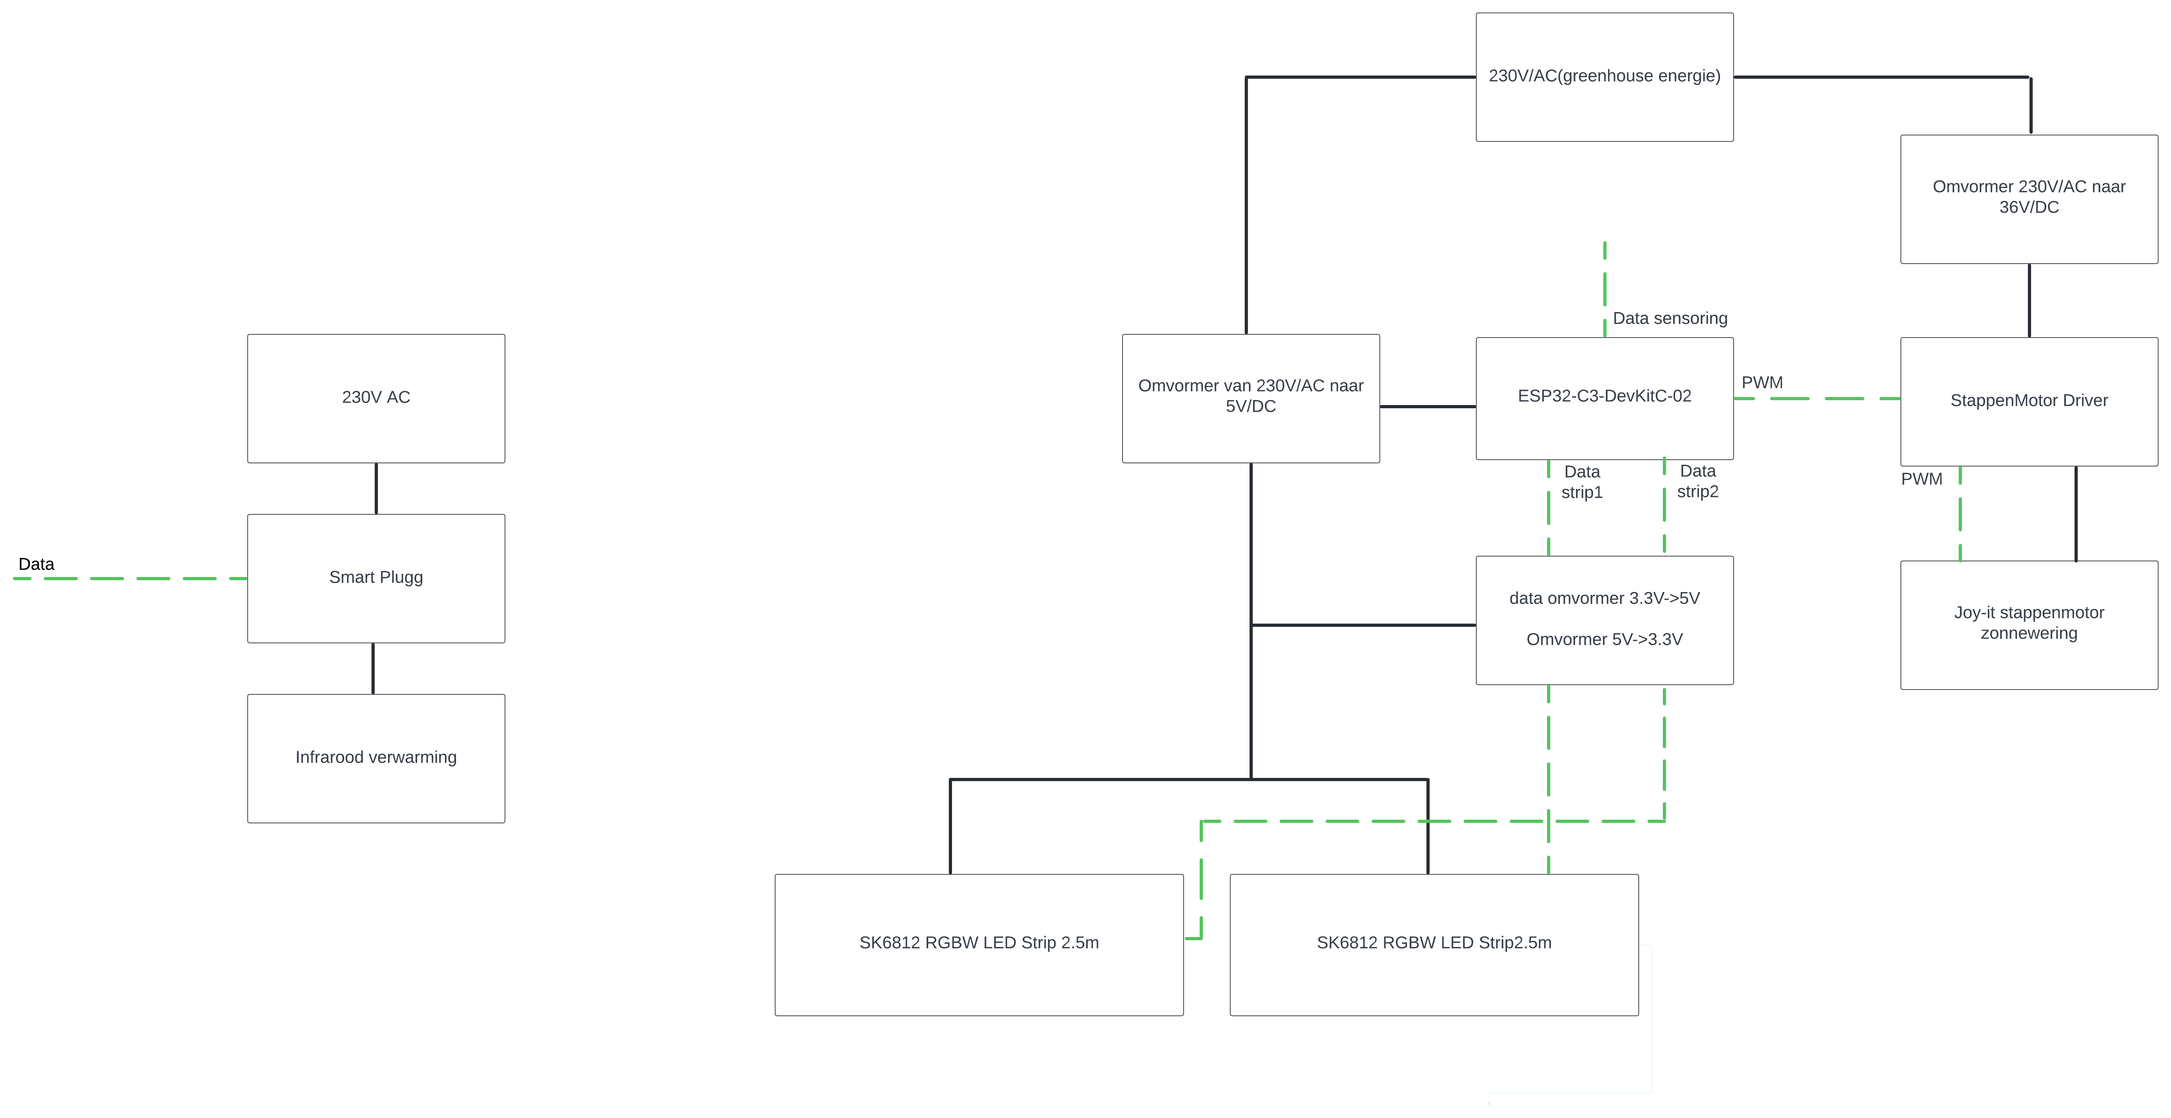
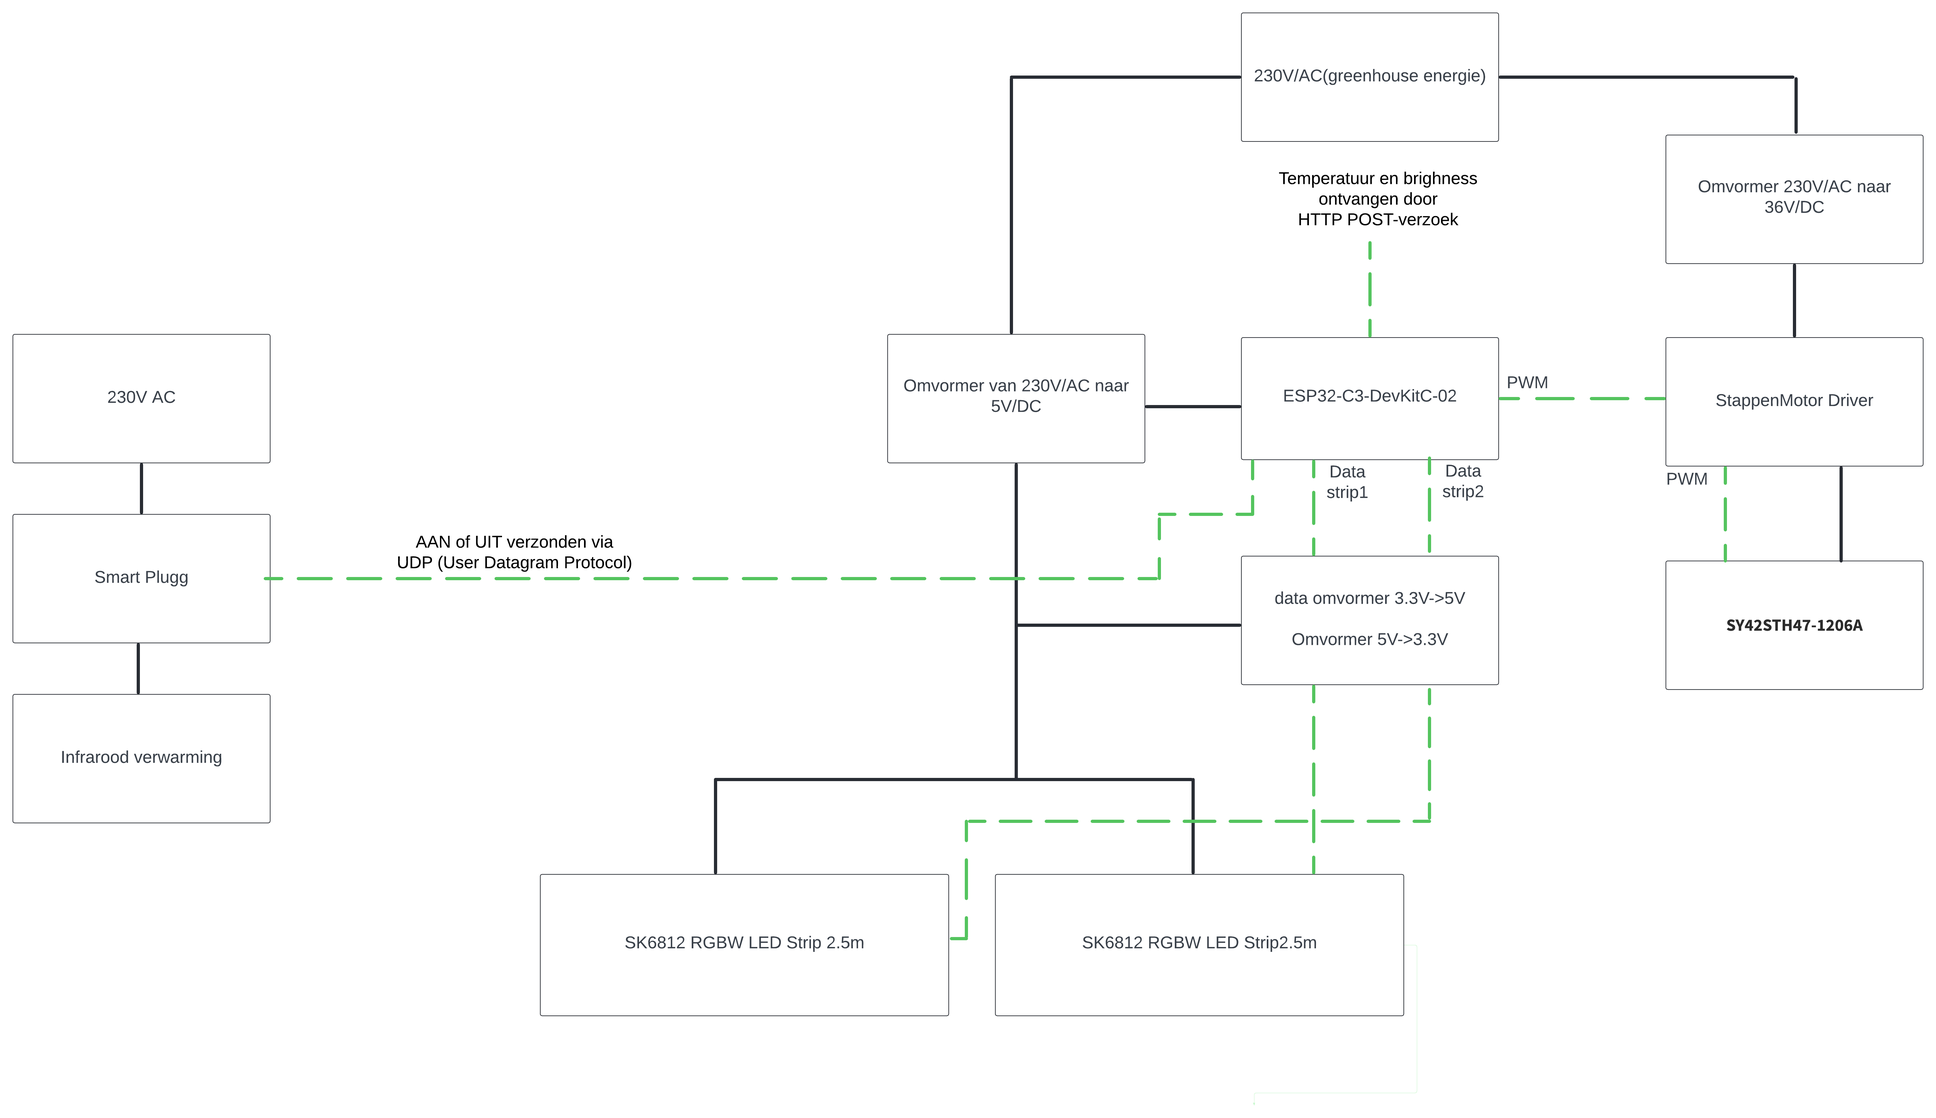
Readme changes

diff --git a/README.md b/README.md
@@ -4,9 +4,15 @@
 
 ## Introduction
 
-This project automates the control of light and heat within a greenhouse to optimize plant growth year-round. Through a network of sensors and actuators, the system continuously monitors and adjusts environmental conditions to create the ideal environment for plants.
+This project automates the control of light and heat within a greenhouse to optimize plant growth year-round. Through a network of sensors and actuators, the system continuously monitors and adjusts environmental conditions to create the ideal environment for plants. We don't do everyting on or own we have a group that measure the temprature and light intensity. And one that send us the data.
 
-## The team
+[GreenhouseSensoring](./Documentatie/README.md).
+
+[GreenhouseNetwork-Monitoring](https://github.com/vives-project-xp/GreenhouseNetwork-Monitoring).
+
+
+
+## Our team
 
 - Thibaut Schroyens (SCRUM Master)
 - Sam De Wispelaere
@@ -14,40 +20,61 @@ This project automates the control of light and heat within a greenhouse to opti
 
 ## features
 
-- Light Control: Adjusts lighting with blue and red LEDs to stimulate plant growth and manages shading to prevent overexposure.
-- Temperature Regulation: Monitors greenhouse temperature, controlling electric heaters to add warmth or opening windows for cooling.
+- **Light Control:** Automated purple lightning based on the current lightintensity.
+- **Temperature Regulation:** Monitors greenhouse temperature, controlling electric heaters to add warmth and a shade cloth to try and cooldown the serre.
 - All LEDs, heaters, and actuators run on standard power (230V), making installation straightforward and accessible without specialized wiring.
 
 ## Hardware
 
-- ledstrip: SK6812 RGBW LED Strip 5m
-- esp32: ESP32-C3-DevKitC-02
-- voedingen: Mean Well Rs-50-5 (5V-10A) + Mean Well UHP-200R-36 (36V-5.6A)
-- stappenmotor: Joy-it Nema23-02 (2.5A - 1.2Nm)
-- level shifter: Sparkfun Logic converter, bi-directional
-- verwarmingselement: VONROC heater marsili compact -2000W
-- Smart plug : Wiz Smart plug
-- stappenmotordriver: Joy-it SBC-MD-TB6600
-- Shade cloth
-- Lamp construction
-- Shade cloth roll-up construction
+- **ledstrip:** SK6812 RGBW LED Strip 5m
+- **esp32:** ESP32-C3-DevKitC-02
+- **voedingen:** Mean Well Rs-50-5 (5V-10A) + Mean Well UHP-200R-36 (36V-5.6A)
+- **stappenmotor:** SY42STH47-1206A 
+- **level shifter:** Sparkfun Logic converter, bi-directional
+- **heater:** VONROC heater marsili compact -2000W
+- **Smart plug :** Wiz Smart plug
+- **stepper motor driver:** Joy-it SBC-MD-TB6600
+- **Shade cloth**
+- **Lamp construction**
+- **Shade cloth roll-up construction**
 
-## 3D Prints
+### Hardware architecture diagram
 
-- Plate for lamps
- ![Plate for lamps](./resources/images/LampPlaat.png)
-- Corner for attaching shade cloth (?)
-- Housing for weight (weight = soil) (?)
-  ![Plate for lamps](./resources/images/WeightForDirt.png)
-- Electric motor attachments (?)
+![Architectuur_Doc](./Documentatie/images/Architectuur_doc.png)
+
 
 ## Software
 
-- The only software used is WLED for controlling our LED's.
-- the rest of the software is provided by the other teams
+- We flash all the code on the ESP using  [Arduino IDE](https://www.arduino.cc/en/software). 
+
+We use there settings for our ESP32 in IDE
+
+![Project Picture AI](./Documentatie/images/SettingsESP32InArduinoIDE.png)
+
+### Used librarys
+- **WebServer.h:** Handles HTTP server requests
+- **ArduinoJson.h:** Parses incoming JSON data.
+- **WiFi.h:** Connects the ESP32 to a Wi-Fi network
+- **FastLED.h:** Controls the LED strip.
+- **WiFiUdp.h:** Used to communicate with the WiZ smart plug via UDP.
 
 ## Bom list
 
+These are all the components we purchased in this project. **Prices may vary depending in the website and date!!**
+
+| Component                                                                                                                                                                                                                                                                                  | Quantity | Price / unit |
+| :----------------------------------------------------------------------------------------------------------------------------------------------------------------------------------------------------------------------------------------------------------------------------------------- | :------: | -----------: |
+| [**SK6812 RGBW LED Strip**](https://www.btf-lighting.com/collections/sk6812-rgbw/products/1-sk6812-rgbw-4-in-1-pixels-individual-addressable-led-strip-dc5v?variant=45843368149218)                                                                                             |    1     |       €36,36 |
+| [**ESP32-C3-DevKitC-02**](https://www.digikey.be/nl/products/detail/espressif-systems/ESP32-C3-DEVKITC-02/14553009)                                                                                                                |    1     |      €7,12 |
+| [**stappenmotor**](https://www.pololu.com/product/1200l)                                                                                                                                                                             |    2    |       €25,63 |
+| [**verwarmingselement**](https://www.brico.be/nl/tuin-terras-buitenleven/terrasverwarming/terrasverwarmers-accessoires/terrasverwarmers/vonroc-heater-marsili-compact-2000w-zwart/10138731#specs)                                                                                                                                                                                    |    1     |        €41,28 |
+| [**level shifter**](https://www.kiwi-electronics.com/nl/sparkfun-logic-level-converter-bi-directional-3154?country=BE&gad_source=1&gclid=CjwKCAjw68K4BhAuEiwAylp3kt7vck5a6xNAdQXR4uiNX7ktb2c63guU_YwqHTPJBu4vWqOJ1PuHGRoCmoIQAvD_BwE)                                                                                                                                                                                |    1     |        €3,51 |
+| [**Omvormer 230-5**](https://www.conrad.be/nl/p/mean-well-rs-50-5-schakelnetvoedingsmodule-5-v-dc-10-a-50-w-1297303.html?cq_src=google_ads&cq_cmp=40589428&cq_term=mean+well+rs-50-5&cq_plac=&cq_net=g&cq_plt=gp&adcampaign=google&tid=40589428_140876950727_kwd-547842379393&gad_source=1&gclid=Cj0KCQjwyL24BhCtARIsALo0fSDuCaDh2ffTkAbUqMfxnU9p9Hiimt1URVC2o9y4NEF36lzJeEPr_NQaAln_EALw_wcB)                                     |    1     |       €14,04 |
+| [**Smart plug**](https://www.hubo.be/nl/p/wiz-smart-plug-stekker/943560/?srsltid=AfmBOop1jMLLTrlQRWXBZI4sboYYit9EBC_hZCbBdXXBF2tYZz2Lpcub)                                                                                                                                                                                 |    1     |        €13,21 |
+| [**Stappenmotordriver**](https://www.conrad.be/nl/p/joy-it-sbc-md-tb6600-stappenmotordriver-2999126.html?refresh=true)                                                                                                                                                                                 |    1     |        €19,83 |
+| [**voeding driver**](https://www.conrad.be/nl/p/mean-well-uhp-200r-36-schakelnetvoedingsmodule-36-v-dc-5-6-a-201-6-w-2237833.html)                                                                                                                                                                                 |    1     |        €54,54 |
+
+
 ## Step by step plan
 
-For a step by step plan click [here](./Documentatie/README.md).
+For a step by step installition guide click [here](./Documentatie/README.md).

diff --git a/Documentatie/README.md b/Documentatie/README.md
@@ -1,36 +1,38 @@
-# Documentation 
+# Installation
 
-This is the documentation page. This is the place u need to be if u want to know everything about or hardware witch components we use. How u set up everything ect. 
+## Reviece the data
 
-## Table of context
+Before we start we need to be abled to connect the ESP32 to the Wifi and recieve the data from [GreenhouseNetwork-Monitoring](https://github.com/vives-project-xp/GreenhouseNetwork-Monitoring) 
 
-## Installation
+- For this we had to place  [this code snipped](../Code/Sending_date.py) in there code. For more info go to there Github.
+
+- Now to connect the ESP32 to the Wifi and recieve the date we u need to upload [this code snipped](../Code/ResieveData_And_No_WLED/ResieveData_And_No_WLED.ino)  to the esp.
+
+
+### Postman
+- If u dont want to use the other projects or u want to test things without them u can test the ESP32 using [Postman](https://www.postman.com/)
+
+Using these settings: 
+![Postman1](../Documentatie/images/PostmanSettings1.png)
+![Postman2](../Documentatie/images/Postmansettings2.png)
+
+Now u shoud be abled to send the data to ur ESP. 
+
+
+
+## Step by step guide
+
 
 1. **Install the LED strip/Lamp:** this can all be found [here](./Lamp_Install_Guide/README.md)
 2. **Install shade Shade cloths:** how to install them can be found here [here](./Shade_cloths_Install_Guide/README.md).
 3. **Install heater:** if u want to know how we installed the heater that can be found here [here](./Heater_Install_Guide/README.md).
+4. **Recieving data** To recieve data u need to connect ur esp32 to WIFI working together with [GreenhouseNetwork-Monitoring](https://github.com/vives-project-xp/GreenhouseNetwork-Monitoring) we placed this code snipped [this code snipped](https://github.com/vives-project-xp/GreenhouseNetwork-Monitoring) in there code. 
 
-## Bill of Material
+**Its a good thing to test everyting together in a demo setup before u install things on the actual serre!!!** 
 
-These are all the components we purchased in this project. **Prices may vary depending in the website and date!!**
+The final code can be found [here](../Code/TotalCode/TotalCode.ino).
 
-| Component                                                                                                                                                                                                                                                                                  | Quantity | Price / unit |
-| :----------------------------------------------------------------------------------------------------------------------------------------------------------------------------------------------------------------------------------------------------------------------------------------- | :------: | -----------: |
-| [**SK6812 RGBW LED Strip**](https://www.btf-lighting.com/collections/sk6812-rgbw/products/1-sk6812-rgbw-4-in-1-pixels-individual-addressable-led-strip-dc5v?variant=45843368149218)                                                                                             |    1     |       €36,36 |
-| [**ESP32-C3-DevKitC-02**](https://www.digikey.be/nl/products/detail/espressif-systems/ESP32-C3-DEVKITC-02/14553009)                                                                                                                |    1     |      €7,12 |
-| [**stappenmotor**](https://www.pololu.com/product/1200l)                                                                                                                                                                             |    2    |       €25,63 |
-| [**verwarmingselement**](https://www.brico.be/nl/tuin-terras-buitenleven/terrasverwarming/terrasverwarmers-accessoires/terrasverwarmers/vonroc-heater-marsili-compact-2000w-zwart/10138731#specs)                                                                                                                                                                                    |    1     |        €41,28 |
-| [**level shifter**](https://www.kiwi-electronics.com/nl/sparkfun-logic-level-converter-bi-directional-3154?country=BE&gad_source=1&gclid=CjwKCAjw68K4BhAuEiwAylp3kt7vck5a6xNAdQXR4uiNX7ktb2c63guU_YwqHTPJBu4vWqOJ1PuHGRoCmoIQAvD_BwE)                                                                                                                                                                                |    1     |        €3,51 |
-| [**Omvormer 230-5**](https://www.conrad.be/nl/p/mean-well-rs-50-5-schakelnetvoedingsmodule-5-v-dc-10-a-50-w-1297303.html?cq_src=google_ads&cq_cmp=40589428&cq_term=mean+well+rs-50-5&cq_plac=&cq_net=g&cq_plt=gp&adcampaign=google&tid=40589428_140876950727_kwd-547842379393&gad_source=1&gclid=Cj0KCQjwyL24BhCtARIsALo0fSDuCaDh2ffTkAbUqMfxnU9p9Hiimt1URVC2o9y4NEF36lzJeEPr_NQaAln_EALw_wcB)                                     |    1     |       €14,04 |
-| [**Smart plug**](https://www.hubo.be/nl/p/wiz-smart-plug-stekker/943560/?srsltid=AfmBOop1jMLLTrlQRWXBZI4sboYYit9EBC_hZCbBdXXBF2tYZz2Lpcub)                                                                                                                                                                                 |    1     |        €13,21 |
-| [**Stappenmotordriver**](https://www.conrad.be/nl/p/joy-it-sbc-md-tb6600-stappenmotordriver-2999126.html?refresh=true)                                                                                                                                                                                 |    1     |        €19,83 |
-| [**voeding driver**](https://www.conrad.be/nl/p/mean-well-uhp-200r-36-schakelnetvoedingsmodule-36-v-dc-5-6-a-201-6-w-2237833.html)                                                                                                                                                                                 |    1     |        €54,54 |
 
-## Architecture documents
-
-### Hardware architecture diagram
-
-![Architectuur_Doc](./images/Architectuur_doc.png)
 
 ### Electrical diagram
 

diff --git a/Documentatie/Lamp_Install_Guide/README.md b/Documentatie/Lamp_Install_Guide/README.md
@@ -38,7 +38,7 @@ This should be the final result:
 
 ### Guide on Connections
 
-To properly connect the components, we need to use a **3.3V to 5V level shifter** because the ESP32 sends **3.3V data signals**, while the LED strips require **5V data signals**.
+To properly connect the components, we need to use a **3.3V to 5V level shifter** because the ESP32 sends **3.3V data signals**, while the LED strips require **5V data signals**. We made or own custom board for this.
 
 #### Power Supply
 
@@ -60,45 +60,8 @@ By ensuring this configuration, the ESP32 can reliably control the LED strips wi
 
 Initially, we considered using **WLED** because it is easy to set up and manage. However, we also needed to implement our custom script on the ESP32 to control the **heater** and **shading**. Since integrating WLED with our custom logic proved challenging, we decided to manage the LEDs through our own script instead. This approach allows us to consolidate all sensor data and control logic.
 
-The sensor value was send from a project **GreenhouseSensoring** to **GreenhouseNetwork-Monitoring** who then send the data to us.
+Then to test the basic LED setup u can [upload this code](../../Code/LEDS_Aanstuuren/LEDS_Appart_Aanstuuren.ino) to ur esp32 this should give u purple light on the LEDS.
 
-
-### 1. Sensor Data Reading
-
-The sensor data reading was implemented with help from the [GreenhouseSensoring](https://github.com/vives-project-xp/GreenhouseSensoring) project. For more details on how sensor data is handled, please visit their GitHub repository.
-
-### 2. Data Transmission
-
-The sensor data is sent to another project, [GreenhouseNetwork-Monitoring](https://github.com/vives-project-xp/GreenhouseNetwork-Monitoring). Visit their page for further insights into how the network transmission is managed.
-
----
-
-## Base Code
-
-The following base code was adapted from **GreenhouseNetwork-Monitoring**:
-
-```python
-async def foo():
-    # data = hass.states.sensor.greenhouse_10_10_2_48
-    # temperature = data.attributes["temperature"]
-    # Brightness = data.attributes["brightness"]
-    Brightness = 100
-    
-    #send data to an esp32
-    import aiohttp
-    import json
-    url = "http://10.10.2.2/json/state"
-    data = {"bri": Brightness}
-    
-    headers = {
-        'Content-Type': 'application/json'
-    }
-    
-    async with aiohttp.ClientSession() as session:
-        async with session.post(url, headers=headers, data=json.dumps(data)) as response:
-            response_text = await response.text()
-            print(response_text)
-```
 
 ## Step 4: Connect the ESP to Net current
 
@@ -106,6 +69,10 @@ async def foo():
 
 ### Led strip on lamp
 
-Now the ledstrip can be put onto the 3d printed lamp. You put the ledstrip on the plate of the lamp so that the connector can go true the holes of the plate to connect to the esp on the back side.
+Now the ledstrip can be put onto the [3d printed lamp](../../resources/3D-Tekeningen/PlaatLamp.stl). You put the ledstrip on the plate of the lamp so that the connector can go true the holes of the plate to connect to the esp on the back side.
 
 ![LedStrip_on_Lamp](../images/led_strip_on_lamp.jpg)
+
+
+
+### Installing it on the serre

diff --git a/Documentatie/Shade_cloths_Install_Guide/README.md b/Documentatie/Shade_cloths_Install_Guide/README.md
@@ -27,11 +27,15 @@
 
 - Connect the four wires of the SY42STH47-1206A stepmotor to the driver:
   - **A+ and A-**: Connect to the corresponding "A+" and "A-" terminals of the TB6600.
+
     A+ --> Red 
+
     A- --> Bleu
 
   - **B+ and B-**: Connect to the corresponding "B+" and "B-" terminals of the TB6600.
+
     B+ --> Green
+
     B- --> Black
 
 - Verify the correct pin order in the motor's datasheet to prevent a short circuit.
@@ -48,14 +52,14 @@
 
 ### Images Connections
 
-![Connecting stepper motor](./images/Connecting_Stepper_Motor.png)
+![Architectuur_Doc](../images/Wiring_architecture_diagram.png)
 
 ## Step 2 : Use the right settings for ur driver
 
 ### Setting the DIP Switches on the TB6600
 
 - Configure the DIP switches as follows:
-  - **Microstepping**: Choose a desired resolution, such as 16 microsteps.
+  - **Microstepping**: Choose a desired resolution, such as  microsteps.
   - **Current Limit**: Set the current limit to **1 A**, the nominal current of the SY42STH47-1206A is 1.2A.
 - Refer to the TB6600 manual for the correct DIP switch settings.
 The following table shows the DIP switch settings for configuring the current limit on the TB6600 driver:
@@ -63,7 +67,7 @@ The following table shows the DIP switch settings for configuring the current li
 | Current (A) | S4  | S5  | S6  |
 |-------------|------|------|------|
 | 0.5         | ON   | ON   | ON   |
-| **1.0**     | ON   | OFF  | ON   |
+| **1.0**     | **ON**   | **OFF**  | **ON**   |
 | 1.5         | ON   | ON   | OFF  |
 | 2.0         | ON   | OFF  | OFF  |
 | 2.5         | OFF  | ON   | ON   |
@@ -73,7 +77,7 @@ The following table shows the DIP switch settings for configuring the current li
 
 | Micro Step | Pulse/Rev | S1   | S2   | S3   |
 |------------|-----------|------|------|------|
-| ** 1**           | 200       | ON   | ON   | OFF  |
+| **1**           | **200**       | **ON**   | **ON**   | **OFF**  |
 | 2/A        | 400       | ON   | OFF  | ON   |
 | 2/B        | 400       | OFF  | ON   | ON   |
 | 4          | 800       | ON   | OFF  | OFF  |
@@ -88,34 +92,8 @@ sources:
 
 ### Setting Up Software on the ESP32
 
-- Use the Arduino IDE or another development environment.
+- Using the Arduino IDE.
 
-##### Example Code (not tested yet)
-
-```cpp
-#define PULSE_PIN 4 // GPIO4 voor PUL+
-#define DIR_PIN 5   // GPIO5 voor DIR+
-
-void setup() {
-  pinMode(PULSE_PIN, OUTPUT);
-  pinMode(DIR_PIN, OUTPUT);
-  
-}
-
-void loop() {
-  // Zet de draairichting
-  digitalWrite(DIR_PIN, HIGH); // HIGH = vooruit, LOW = achteruit
-  
-  // Stuur pulsen naar de driver
-  for (int i = 0; i < 200; i++) { // 200 stappen = 1 omwenteling bij 1,8° stappenmotor
-    digitalWrite(PULSE_PIN, HIGH);
-    delayMicroseconds(500); // Pulse-hoogte (500 µs)
-    digitalWrite(PULSE_PIN, LOW);
-    delayMicroseconds(500); // Pulse-laag (500 µs)
-  }
-  
-  delay(1000); // Wacht 1 seconde voor de volgende beweging
-}
-```
+Upload [this code](../../Code/StappenMotorCode/CodeStappenMotorDraaien.ino) to the ESP32 for basic rotation , 1 full rotation right then 1 full rotation left. This way u can varify if it works.
 
 ## Step 4 : Installation on serre
